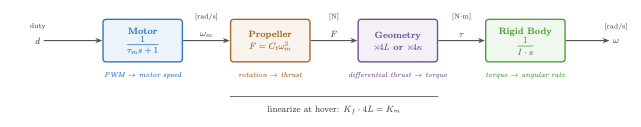
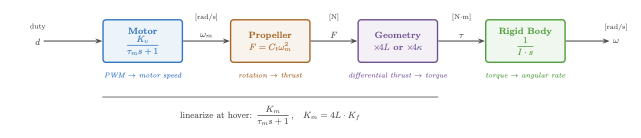
fix(slides): add motor gain Kv to plant_detail block diagram
The Motor block previously showed unity gain 1/(τm·s+1), which is
physically incorrect since duty-to-motor-speed conversion requires
a gain Kv. Extended linearization brace to cover Motor+Propeller+
Geometry, showing the lumped result Km/(τm·s+1) with Km=4L·Kf.

diff --git a/docs/education/workshop/slides/tikz/plant_detail.tex b/docs/education/workshop/slides/tikz/plant_detail.tex
@@ -28,7 +28,7 @@
 
   % Block 1: Motor
   \node[block=motorcolor] (motor) at (2.5, 0)
-    {Motor\\[1pt]$\dfrac{1}{\tau_m s + 1}$};
+    {Motor\\[1pt]$\dfrac{K_v}{\tau_m s + 1}$};
 
   % Block 2: Propeller
   \node[block=propcolor] (prop) at (7.0, 0)
@@ -72,9 +72,9 @@
   % Linearization brace and note
   \draw[decorate, decoration={brace, amplitude=5pt, mirror},
         arrowcolor, line width=0.8pt]
-    ($(prop.south west)+(0,-1.2)$) -- ($(geom.south east)+(0,-1.2)$)
+    ($(motor.south west)+(0,-1.2)$) -- ($(geom.south east)+(0,-1.2)$)
     node[midway, below=5pt, font=\small, arrowcolor, align=center]
-    {linearize at hover: $K_f \cdot 4L = K_m$};
+    {linearize at hover: $\dfrac{K_m}{\tau_m s + 1}$\,,\quad $K_m = 4L \cdot K_f$};
 
 \end{tikzpicture}
 \end{document}
